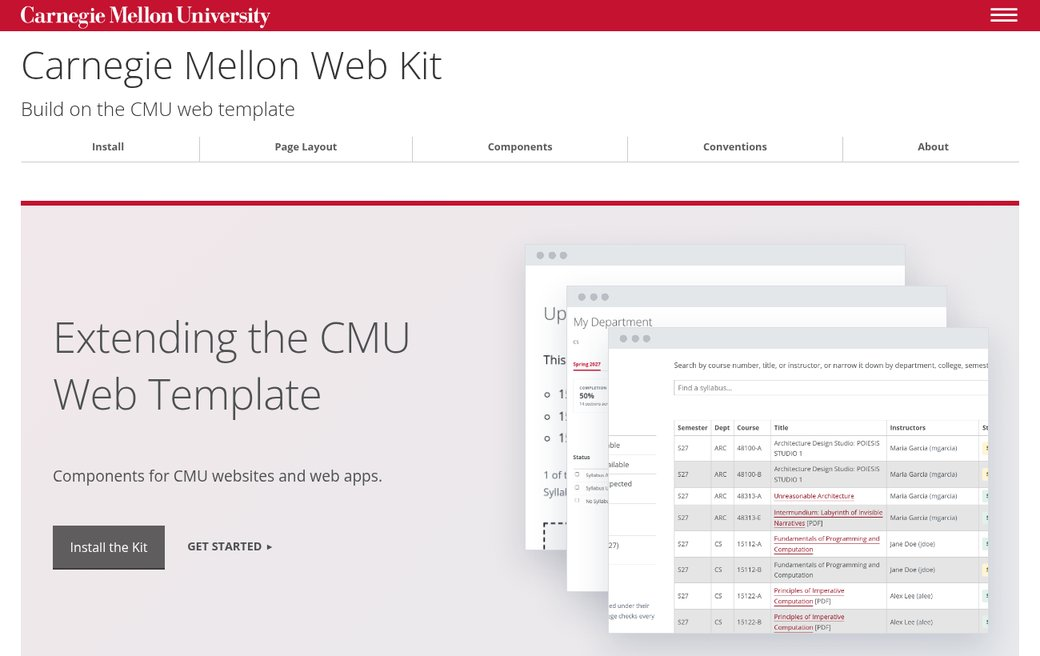
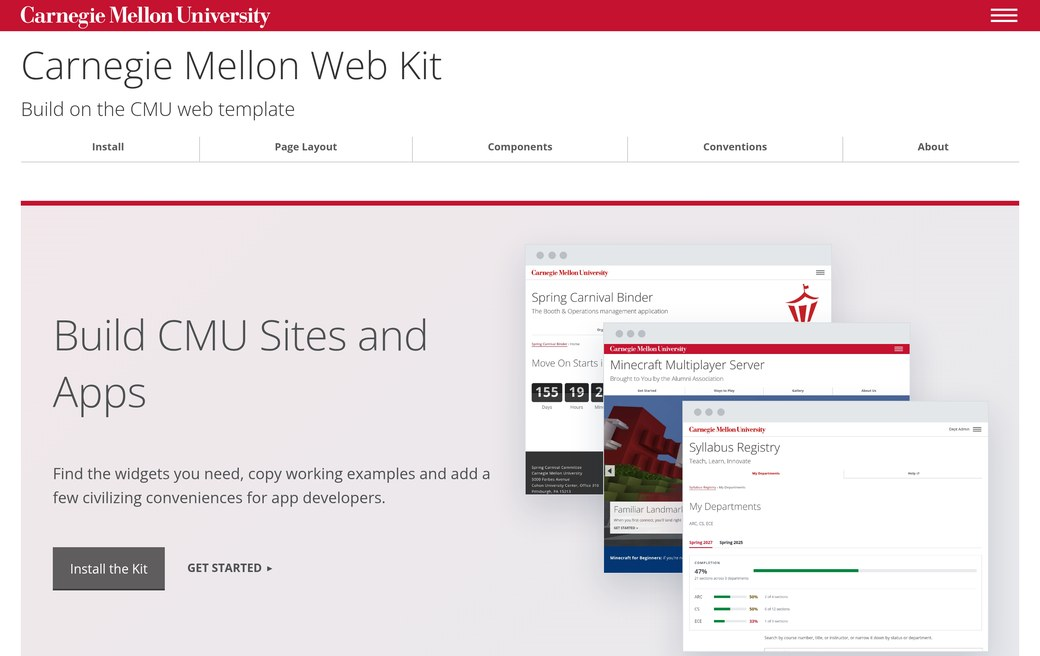
docs: update the Web Kit screenshot on About

diff --git a/docs/about.html b/docs/about.html
@@ -158,7 +158,7 @@
               <a href="https://cmu-web.github.io/cmu-web-kit/" tabindex="-1" aria-hidden="true"
                 ><img
                   src="images/gallery-web-kit.jpg"
-                  alt="The Carnegie Mellon Web Kit's home page: a hero with an Install the Kit button beside stacked screenshots of an app."
+                  alt="The Carnegie Mellon Web Kit's home page: a hero with an Install the Kit button beside stacked screenshots of three CMU sites."
                   width="1040"
                   height="656"
               /></a>
